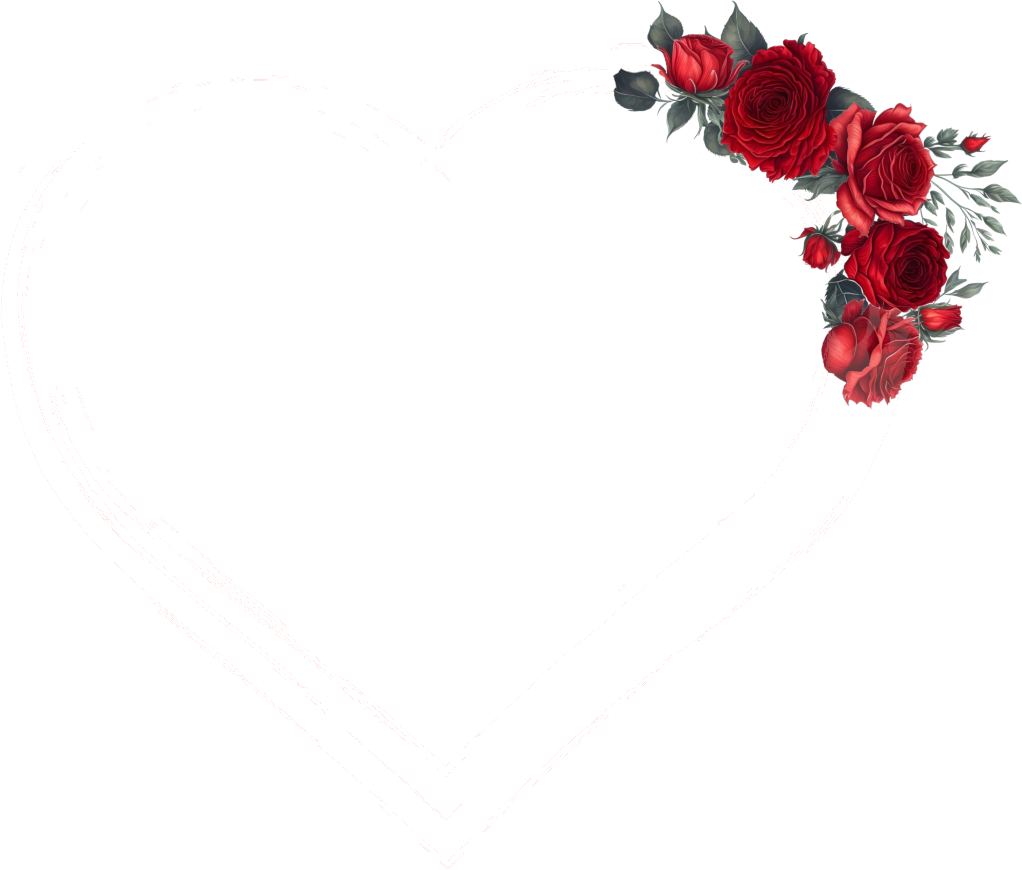
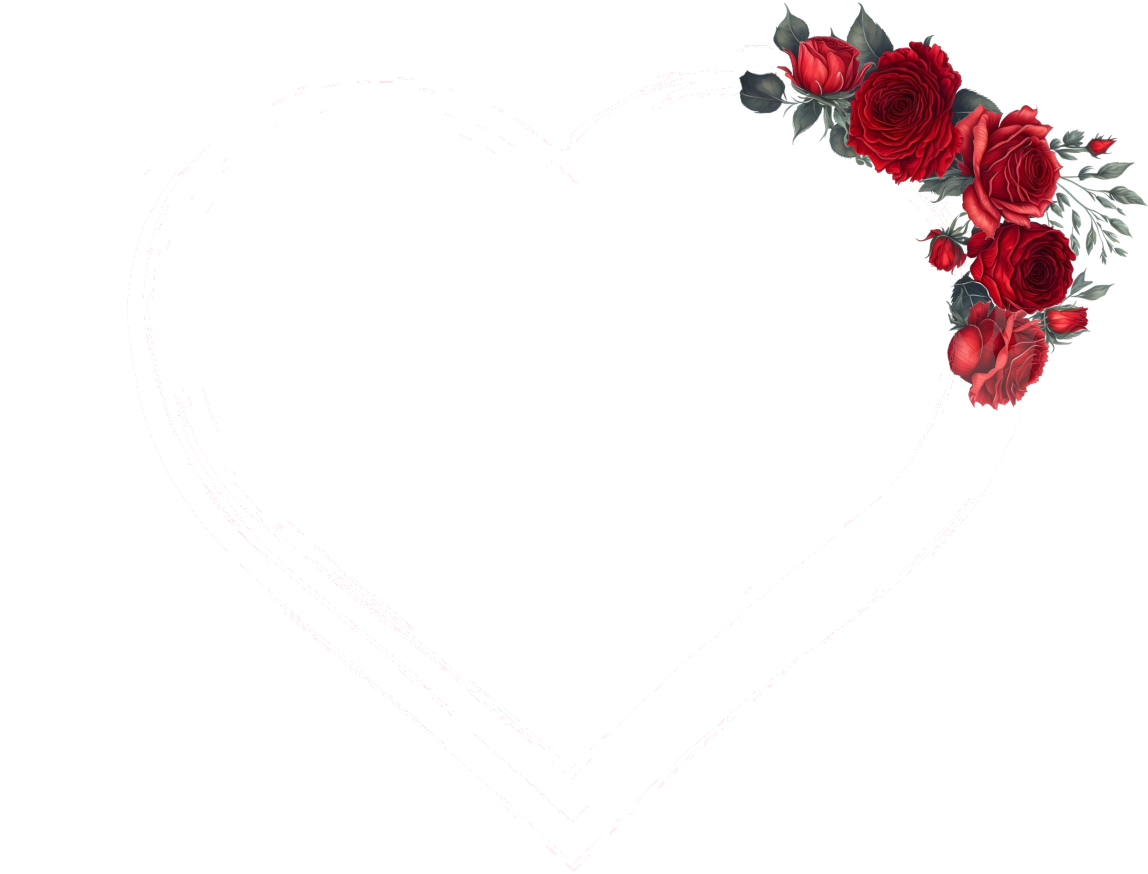
Agregue formulario y modifique contador

Changed region(s): [[0.5763, 0.0, 1.0, 0.4655]]

diff --git a/xv_hazel/resources/css/style.css b/xv_hazel/resources/css/style.css
@@ -61,6 +61,7 @@ span {
 /* ============= Components ========== */
 /* ============= Buttons ========== */
 .button {
+    background: none;
     padding: 0.5rem 1rem;
     text-decoration: none;
     border: 1px solid black;
@@ -71,6 +72,24 @@ span {
     align-items: center;
     gap: 0.25rem;
     margin: 2rem;
+    font-family: 'Montserrat', sans-serif;
+    cursor: pointer;
+}
+
+.button:hover {
+    background-color: black;
+    color: white;
+}
+
+input {
+    padding: 0.75rem 1.5rem;
+    border: none;
+    border-radius: 25px;
+    font-size: 1rem;
+    font-family: 'Montserrat', sans-serif;
+    outline: none;
+    margin: 1rem 0;
+    box-shadow: inset 1px 1px 5px 0 #a5a5a5;
 }
 
 /* ============= Main ========== */
@@ -87,29 +106,37 @@ span {
 .countdown-section {
     padding: 2rem 0;
     margin-bottom: 2rem;
-    background-image: url("../img/background3.png");
-    background-size: 200%;
-    background-repeat: no-repeat;
-    background-position-y: 50%;
+    background-color: #ff0900;
+    background-image: url("https://www.transparenttextures.com/patterns/diagmonds.png");
     color: white;
 }
 
 .countdown-section .marco {
     margin: 1rem 0 2rem;
     width: 100%;
-    height: 16rem;
+    aspect-ratio: 4 / 3;
     background-image: url("../img/marco.png");
     background-repeat: no-repeat;
-    background-size: 75%;
-    background-position: 67% 65%;
+    background-size: 100%;
+    background-position: 50% 50%;
     display: flex;
-    flex-direction: column;
-    justify-content: center;
     align-items: center;
+    justify-content: center;
+}
+
+.countdown-section .marco > div {
+    display: grid;
+    grid-template-columns: repeat(3, 1fr);
+    gap: 0.5rem;
+}
+
+.countdown-section .seconds {
+    grid-column: 1 / 4;
 }
 
 .countdown-section .countdown {
-    font-size: 4rem;
+    font-size: 2rem;
+
 }
 
 /* =========== Seccion itinerario ========= */
@@ -131,3 +158,29 @@ span {
 .codigo-vestimenta-section {
     margin: 2rem 0;
 }
+
+.custom-icon {
+    width: 5rem;
+    height: 5rem;
+    background-repeat: no-repeat;
+    background-size: 5rem;
+    background-position: 50% 50%;
+    margin: 1rem;
+}
+
+.codigo-vestimenta-icon {
+    background-image: url('../icons/codigo-de-vestimenta.png');
+}
+
+/* =========== Sección Confirmación ========= */
+.confirmacion-section {
+    margin: 4rem 0;
+}
+
+.confirmacion-section form {
+    background-color: white;
+    padding: 1rem 1rem 0;
+    border-radius: 25px;
+    box-shadow: 1px 1px 15px 0 #a89e8e;
+}
+

diff --git a/xv_hazel/hazel.html b/xv_hazel/hazel.html
@@ -8,10 +8,11 @@
     <link rel="stylesheet" href="./resources/css/style.css">
     <link rel="stylesheet" href="./resources/css/stars.css">
     <link rel="stylesheet" href="https://fonts.googleapis.com/css2?family=Material+Symbols+Outlined:wght@100">
+    <link rel="stylesheet" href="https://cdn.jsdelivr.net/npm/bootstrap-icons@1.11.1/font/bootstrap-icons.css">
     
     <script src="./resources/js/index.js"></script>
 </head>
-<body onload="main()">
+<body onload="onLoad()">
     <div class="stars">
         <div id="star1"></div>
         <div id="star2"></div>
@@ -28,8 +29,16 @@
         <section class="countdown-section">
             <span class="emphasis">Solo faltan</span>
             <div class="marco">
-                <span id="countdown" class="countdown"></span>
-                <span>Días</span>
+                <div>
+                    <span id="days" class="countdown"></span>
+                    <span id="hours" class="countdown"></span>
+                    <span id="minutes" class="countdown"></span>
+                    <span>Días</span>
+                    <span>Hrs</span>
+                    <span>Mins</span>
+                    <span id="seconds" class="countdown seconds"></span>
+                    <span class="seconds">Segs</span>
+                </div>
             </div>
             <span>20.01.2024</span>
         </section>
@@ -58,14 +67,22 @@
 
         <section class="codigo-vestimenta-section">
             <h2>Código de Vestimenta</h2>
-            <i class="material-symbols-outlined icon-big">styler</i>
+            <i class="custom-icon codigo-vestimenta-icon"></i>
             <span>Formal</span>
         </section>
         <section class="confirmacion-section">
-            <a class="button" href="">
-                Confirmar Asistencia
-            </a>
+            <form onsubmit="onSubmit(event)">
+                <h2>Confirmación</h2>
+                <Input id="name" type="text" placeholder="Tu nombre" required/>
+                <button class="button" type="submit">
+                    <i class="bi bi-whatsapp"></i>
+                    Confirmar Asistencia
+                </button>
+            </form>
         </section>
     </main>
+    <footer>
+
+    </footer>
 </body>
 </html>

diff --git a/xv_hazel/resources/js/index.js b/xv_hazel/resources/js/index.js
@@ -1,10 +1,28 @@
+let subMensaje1 = "Hola soy ";
+let subMensaje2 = ", confirmo mi asistencia a la fiesta de Emily";
+
 function onCountdownLoad() {
     let date = new Date('January 20, 2024 19:30:00');
     let now = new Date();
-    let daysLeft = Math.ceil((date - now) / (1000 * 60 * 60 * 24));
-    document.getElementById('countdown').innerText = daysLeft;
+    let distance = date - now
+    let days = Math.floor(distance / (1000 * 60 * 60 * 24));
+    let hours = Math.floor((distance % (1000 * 60 * 60 * 24)) / (1000 * 60 * 60));
+    let minutes = Math.floor((distance % (1000 * 60 * 60)) / (1000 * 60));
+    let seconds = Math.floor((distance % (1000 * 60)) / 1000);
+    document.getElementById('days').innerText = days;
+    document.getElementById('hours').innerText = hours;
+    document.getElementById('minutes').innerText = minutes;
+    document.getElementById('seconds').innerText = seconds;
 }
 
-function main() {
-    onCountdownLoad();
+function onSubmit(event) {
+    event.preventDefault();
+    let name = document.getElementById("name").value;
+    let mensaje = (subMensaje1 + name + subMensaje2).replace(" ", "%20");
+    let url = "https://wa.me/+5215551817720?text=" + mensaje
+    window.location.href = url;
+}
+
+function onLoad() {
+    setInterval(onCountdownLoad, 1000);
 }

diff --git a/index.html b/index.html
@@ -6,8 +6,5 @@
     <title>Invitaciones</title>
 </head>
 <body>
-    <ul>
-        <li><a href="./xv_hazel/hazel.html">Emily Hazel</a></li>
-    </ul>
 </body>
 </html>

diff --git a/README.md b/README.md
@@ -2,3 +2,10 @@
 Son invitaciones... y son digitales... jeje
 
 Son páginas web estáticas que sirven como invitaciones para eventos, así se pueden agregar animaciones o cosas bonitas.
+
+# Creditos
+## iconos
+### SmashIcons
+
+[<img src="xv_hazel/resources/icons/codigo-de-vestimenta.png" width="50px" height="auto">](https://www.flaticon.es/iconos-gratis/codigo-de-vestimenta)
+
